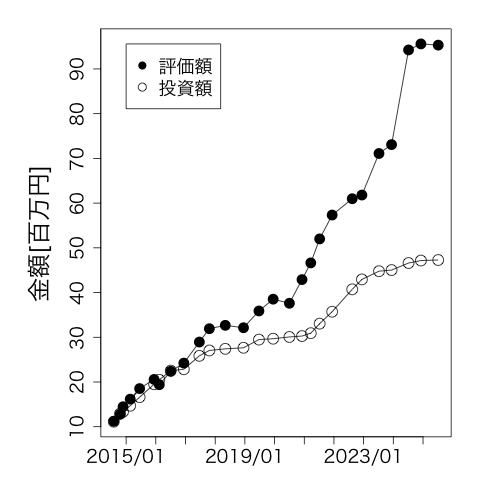
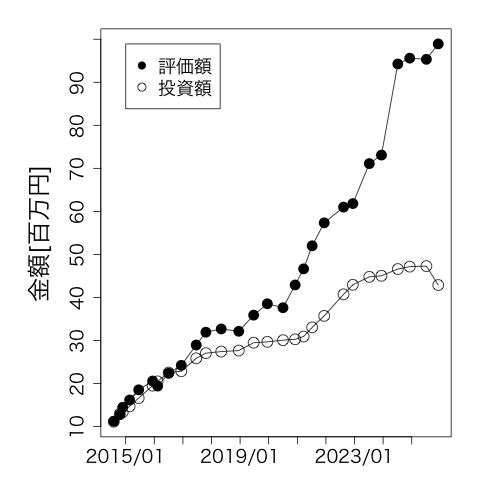
2025/12

diff --git a/investment_return.md b/investment_return.md
@@ -39,3 +39,4 @@ permalink: /investment_return/
 7/7/2024|46,599,379|94,250,907|47,651,528|102.26%
 12/6/2024|47,159,344|95,598,592|48,439,248|102.71%
 7/7/2025|47,274,673|95,327,020|48,052,347|101.65%
+12/5/2025|42,883,830|98,909,712|56,025,882|130.65%